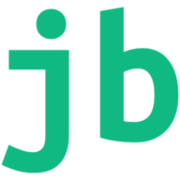
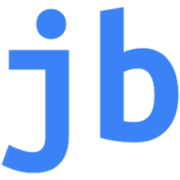
changed picture and color scheme (#49)
* changed picture

* fixed project links

* changed primary color

* reverted changes to manifest.json

diff --git a/src/components/constants.js b/src/components/constants.js
@@ -52,14 +52,14 @@ export const PROJECTS = [
     description: "Common Vulnerability Scoring System based calculator",
     name: "cvss",
     repoURL: "https://github.com/jagannathBhat/cvss",
-    projectURL: "cvss.bhat.dev",
+    projectURL: "https://cvss.bhat.dev",
     topics: ["Calculator", "CVSS"],
   },
   {
     description: "Template for Create React App with Redux and Material-UI",
     name: "cra-template-rrm",
     repoURL: "https://github.com/jagannathBhat/cra-template-rrm",
-    projectURL: "www.npmjs.com/package/cra-template-rrm",
+    projectURL: "https://www.npmjs.com/package/cra-template-rrm",
     topics: ["npm-package", "react-template", "create-react-app-template"],
   },
   {
@@ -67,7 +67,7 @@ export const PROJECTS = [
       "ODC is a system for Govt. schools to collect students' data and send it to Govt. officials. ODC works can be used to collect data even when offline. The data will be sent automatically when the app comes back online.",
     name: "odc",
     repoURL: "https://github.com/jagannathBhat/odc",
-    projectURL: "odc-shool.netlify.app/",
+    projectURL: "https://odc-shool.netlify.app/",
     topics: ["react", "pouchDB"],
   },
   {
@@ -75,7 +75,6 @@ export const PROJECTS = [
       "Help people determine if a tumor on their skin is Benign or Malignant",
     name: "benant",
     repoURL: "https://github.com/jagannathBhat/benant",
-    projectURL: "",
     topics: [
       "react",
       "flask",
@@ -91,7 +90,6 @@ export const PROJECTS = [
       "Download the anime you want from AnimeYoutube without any of the ads. This project is not production ready because of some issues. Please check the issues section if you can help me out with any of them",
     name: "anime youtube downloader",
     repoURL: "https://github.com/jagannathBhat/animeyoutube-downloader",
-    projectURL: "animeyoutubedownloader.herokuapp.com/",
     topics: [
       "react",
       "flast ",
@@ -107,7 +105,7 @@ export const PROJECTS = [
       "NPM package - Boilerplate for making web apps with React, Redux and Material-UI",
     name: "rrm-app",
     repoURL: "https://github.com/jagannathBhat/rrm-app",
-    projectURL: "www.npmjs.com/package/rrm-app",
+    projectURL: "https://www.npmjs.com/package/rrm-app",
     topics: ["react", "redux", "boilerplate", "material-ui", "npm-package"],
   },
   {
@@ -115,7 +113,6 @@ export const PROJECTS = [
       "NodeJS script to generate certificates in PDF format from am SVG template",
     name: "certificate generator",
     repoURL: "https://github.com/jagannathBhat/certificate-generator",
-    projectURL: "",
     topics: ["nodejs", "pdfkit"],
   },
   {
@@ -123,7 +120,6 @@ export const PROJECTS = [
       "A web app that generates Time Tables using a Genetic Algorithm",
     name: "fit-tables",
     repoURL: "https://github.com/jagannathBhat/fit-tables",
-    projectURL: "fittables.herokuapp.com/",
     topics: [
       "react ",
       "flask",
@@ -137,14 +133,14 @@ export const PROJECTS = [
       "This is repo contains the website for the technical fest of Adi Shankara Institute of Engineering and Technology",
     name: "ashwamedha",
     repoURL: "https://github.com/jagannathBhat/Ashwamedha19",
-    projectURL: "jagannathbhat.github.io/ashwamedha19/",
+    projectURL: "https://jagannathbhat.github.io/Ashwamedha19/",
     topics: [],
   },
   {
     description: "Website for the hackathon Hack Camp 1.0",
     name: "hackCamp1",
     repoURL: "https://github.com/jagannathBhat/hackCamp1",
-    projectURL: "jagannathbhat.github.io/hackcamp1/",
+    projectURL: "https://jagannathbhat.github.io/hackCamp1/",
     topics: [],
   },
   {

diff --git a/src/App.css b/src/App.css
@@ -1,40 +1,10 @@
-.App {
-  text-align: center;
-}
-
-.App-logo {
-  height: 40vmin;
-  pointer-events: none;
-}
-
-@media (prefers-reduced-motion: no-preference) {
-  .App-logo {
-    animation: App-logo-spin infinite 20s linear;
-  }
-}
-
-.App-header {
-  background-color: #282c34;
-  min-height: 100vh;
-  display: flex;
-  flex-direction: column;
-  align-items: center;
-  justify-content: center;
-  font-size: calc(10px + 2vmin);
-  color: white;
-}
-
-.App-link {
-  color: #61dafb;
-}
-
 .alt-font {
   font-family: 'Ubuntu Mono', monospace;
 }
 
 .welcome::before {
   border-bottom: 0;
-  border-top: 1px solid #22c55e;
+  border-top: 1px solid #3b82f6;
   content: '';
   display: block;
   flex-grow: 1;
@@ -43,18 +13,9 @@
   -ms-flex-positive: 1;
 }
 
-@keyframes App-logo-spin {
-  from {
-    transform: rotate(0deg);
-  }
-  to {
-    transform: rotate(360deg);
-  }
-}
-
 @media (min-width: 768px) {
   .about-section {
-    background-image: url('assets/about-bg.png');
+    background-image: url('assets/about-bg.svg');
     background-position: 70vw 0;
     background-repeat: no-repeat;
     background-size: cover;

diff --git a/src/components/Projects/index.js b/src/components/Projects/index.js
@@ -11,7 +11,7 @@ const Projects = () => {
   const [showModal, setShowModal] = useState(false);
 
   return (
-    <div className="bg-green-50 bg-opacity-40 py-20 text-center" id="projects">
+    <div className="bg-primary-50 bg-opacity-40 py-20 text-center" id="projects">
       <h1 className="alt-font font-bold text-5xl">projects</h1>
       <p
         className="mb-14 mt-2 mx-4 text-gray-500 text-lg sm:mx-auto sm:w-2/3"
@@ -30,8 +30,8 @@ const Projects = () => {
           ))}
           <div>
             <button
-              className="border-2 border-green-500 mt-8 px-2 py-1 text-green-500 text-md w-full
-              transition duration-150 hover:bg-green-500 hover:text-white"
+              className="border-2 border-primary mt-8 px-2 py-1 text-primary text-md w-full
+              transition duration-150 hover:bg-primary hover:text-white"
               title="just the ones i like to show people. there are so many more stale projects"
               onClick={() => setShowModal(true)}
             >

diff --git a/src/components/About/Description.js b/src/components/About/Description.js
@@ -18,7 +18,7 @@ const Description = () => {
         />
       </div>
       <div className="max-w-lg mx-auto">
-        <span className="flex items-center mb-3 mt-24 text-green-500 welcome w-1/3 md:mt-48">
+        <span className="flex items-center mb-3 mt-24 text-primary welcome w-1/3 md:mt-48">
           welcome
         </span>
         <h2 className="alt-font font-bold text-7xl" title="hence the jb">

diff --git a/tailwind.config.js b/tailwind.config.js
@@ -1,10 +1,19 @@
 /** @type {import('tailwindcss').Config} */
+const colors = require('tailwindcss/colors')
+
 module.exports = {
   content: [
     "./src/**/*.{js,jsx,ts,tsx}",
   ],
   theme: {
-    extend: {},
+    extend: {
+      colors: {
+        primary: {
+          DEFAULT: colors.blue[500],
+          50: colors.blue[50],
+        },
+      },
+    },
   },
   plugins: [],
 }

diff --git a/src/components/About/Header/index.js b/src/components/About/Header/index.js
@@ -9,7 +9,7 @@ const Header = () => {
     <>
       <div className="flex items-center justify-between px-4 py-6">
         <div className="flex items-center">
-          <h1 className="alt-font font-bold mr-4 text-5xl text-green-500">
+          <h1 className="alt-font font-bold mr-4 text-5xl text-primary">
             jb
           </h1>
           {LINKS.map((link, index) => (

diff --git a/src/components/Footer/index.js b/src/components/Footer/index.js
@@ -3,7 +3,7 @@ import Socials from "../Common/Socials";
 
 const Footer = () => (
   <div className="flex items-center justify-between max-w-7xl mx-auto p-8">
-    <h1 className="alt-font font-bold mr-4 text-5xl text-green-500">jb</h1>
+    <h1 className="alt-font font-bold mr-4 text-5xl text-primary">jb</h1>
     <div className="text-3xl space-x-5">
       <Socials />
     </div>

diff --git a/src/components/Blog/Post.js b/src/components/Blog/Post.js
@@ -11,7 +11,7 @@ const Post = ({ data }) => {
       <div className='flex items-center justify-between'>
         <span className='text-gray-400'>{data.date}</span>
         <a
-          className='text-green-500 text-xl'
+          className='text-primary text-xl'
           href={data.url}
           rel='noreferrer'
           target='_blank'

diff --git a/src/components/Blog/index.js b/src/components/Blog/index.js
@@ -6,7 +6,7 @@ import { POSTS } from "./constants";
 const Blog = () => {
   return (
     <div
-      className="bg-green-50 bg-opacity-40 py-20 text-center"
+      className="bg-primary-50 bg-opacity-40 py-20 text-center"
       id="blog posts"
     >
       <h1

diff --git a/src/components/Common/Link.js b/src/components/Common/Link.js
@@ -2,7 +2,7 @@ import React from 'react'
 
 const Link = ({ children, className, to }) => (
   <a
-    className={'text-green-500 ' + className}
+    className={`text-primary ${className}`}
     href={to}
     rel='noreferrer'
     target='_blank'
